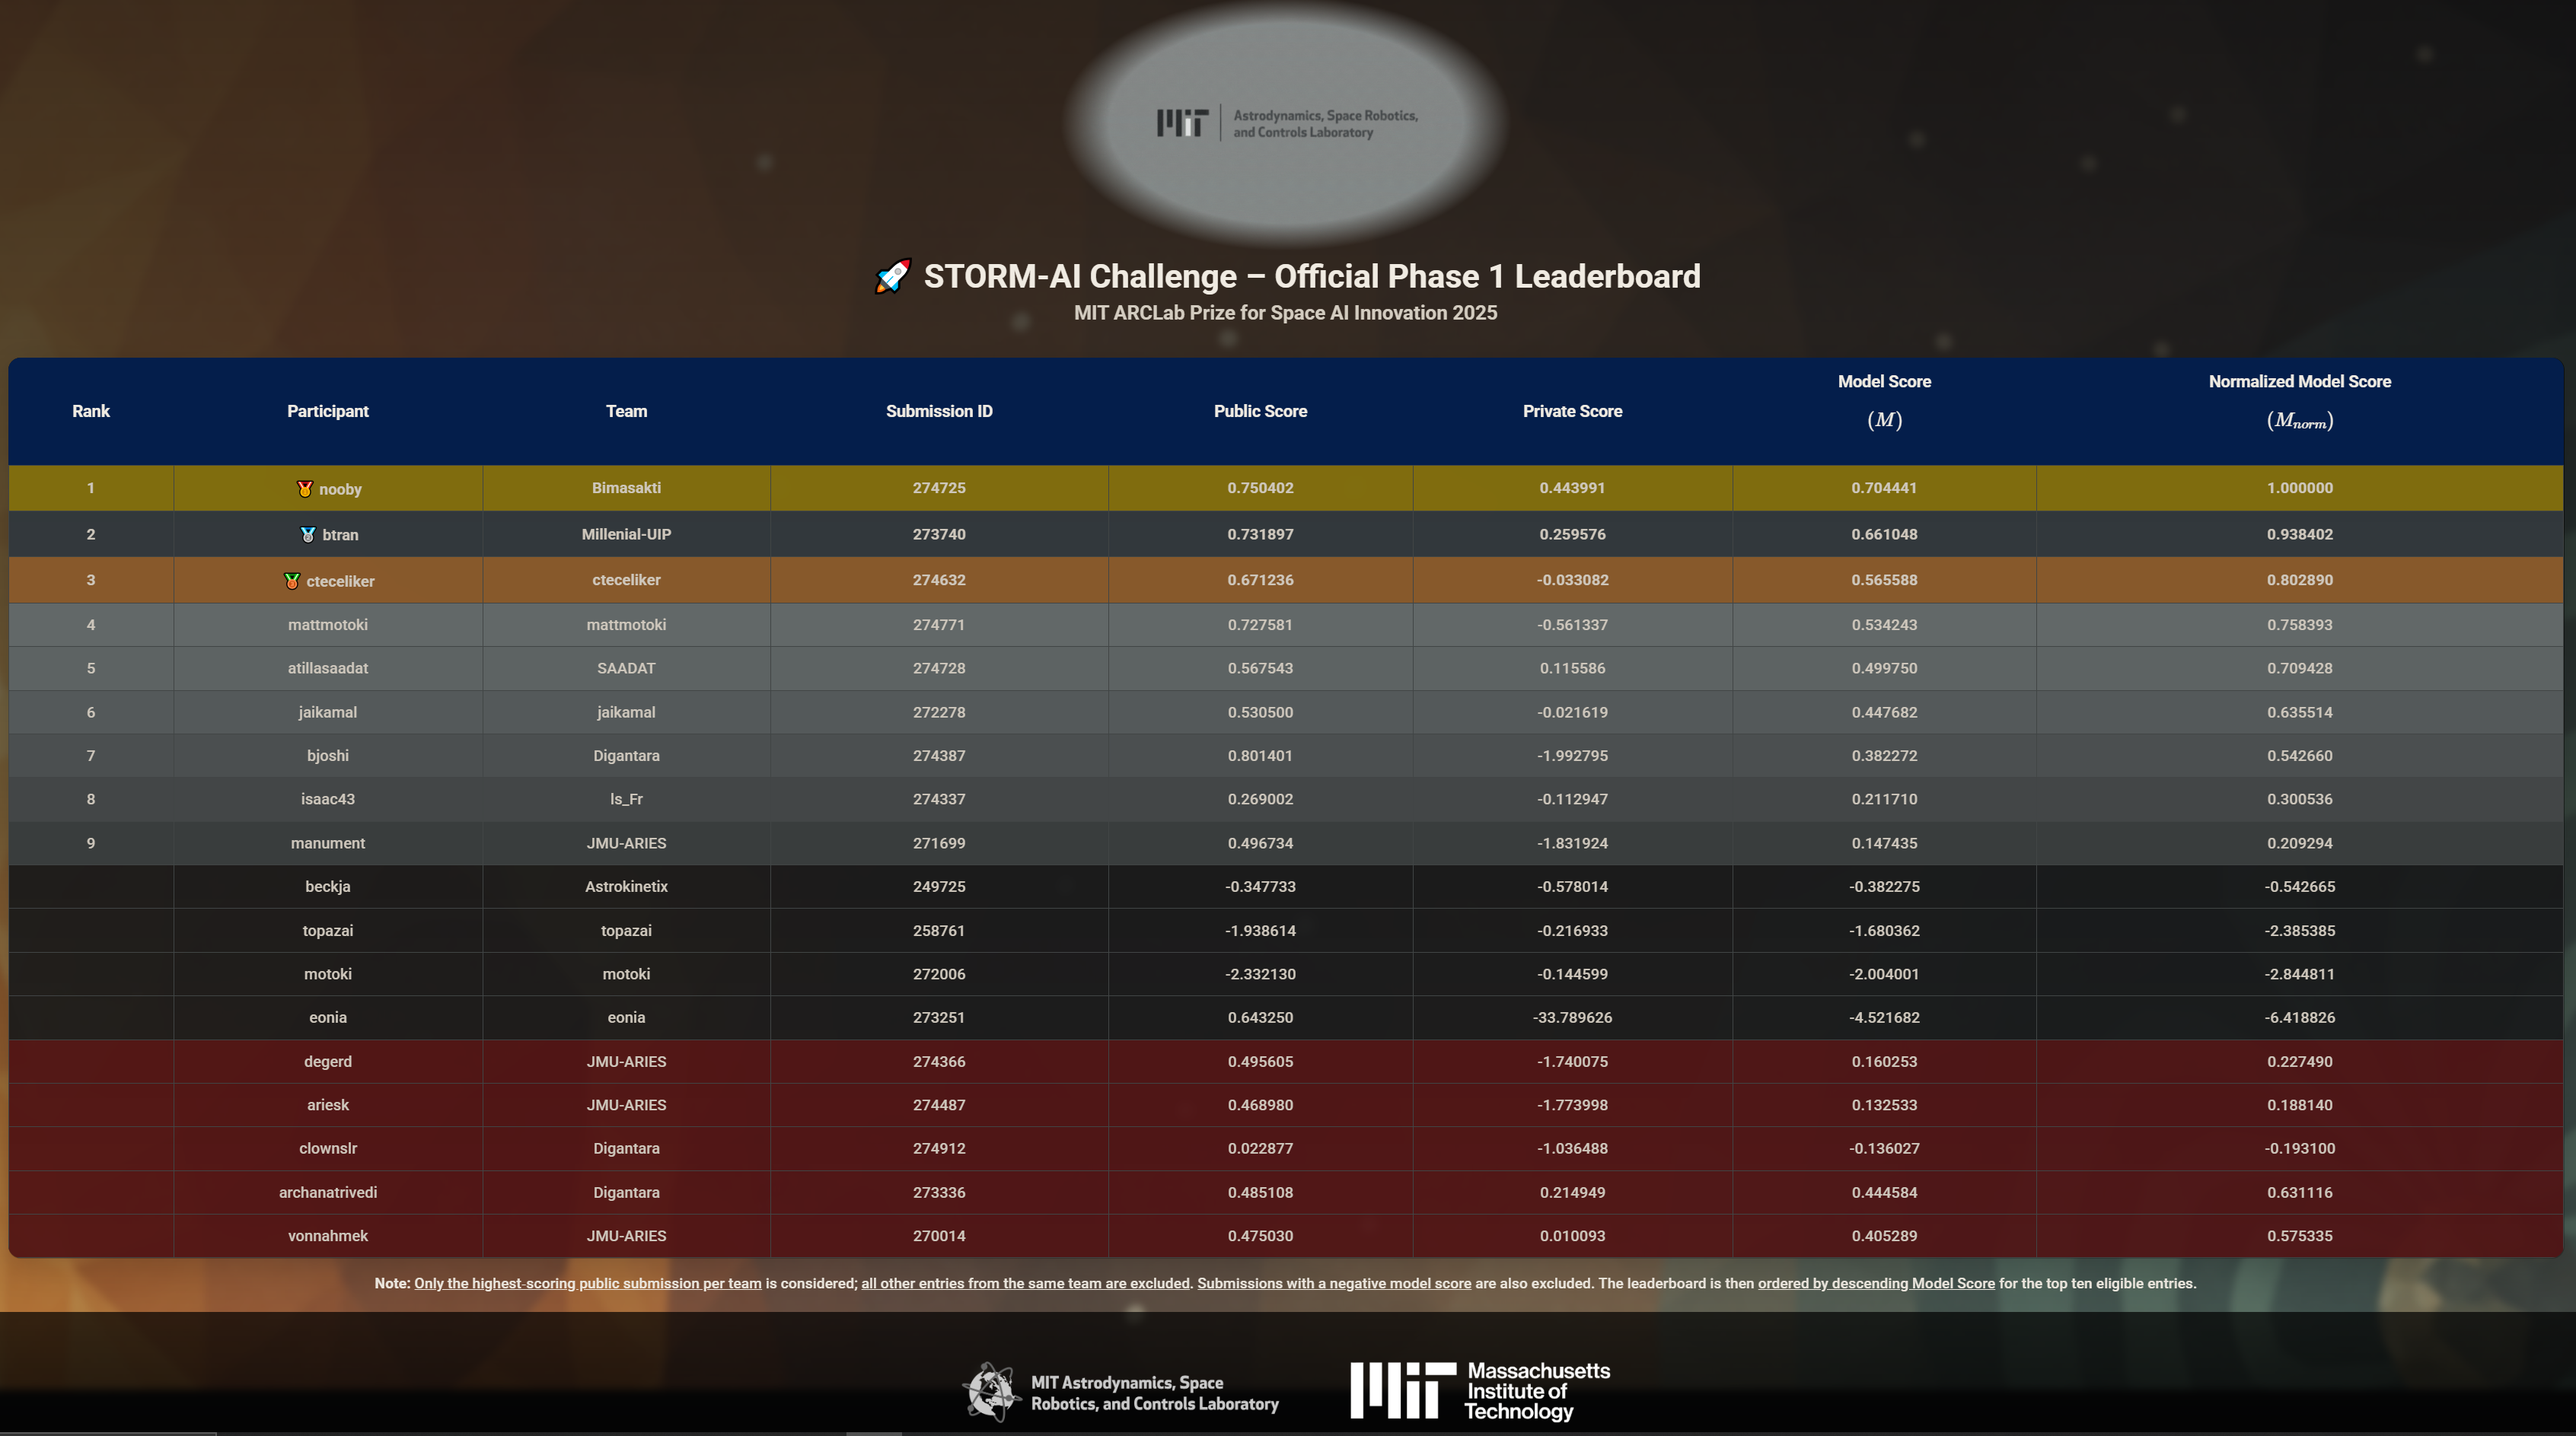
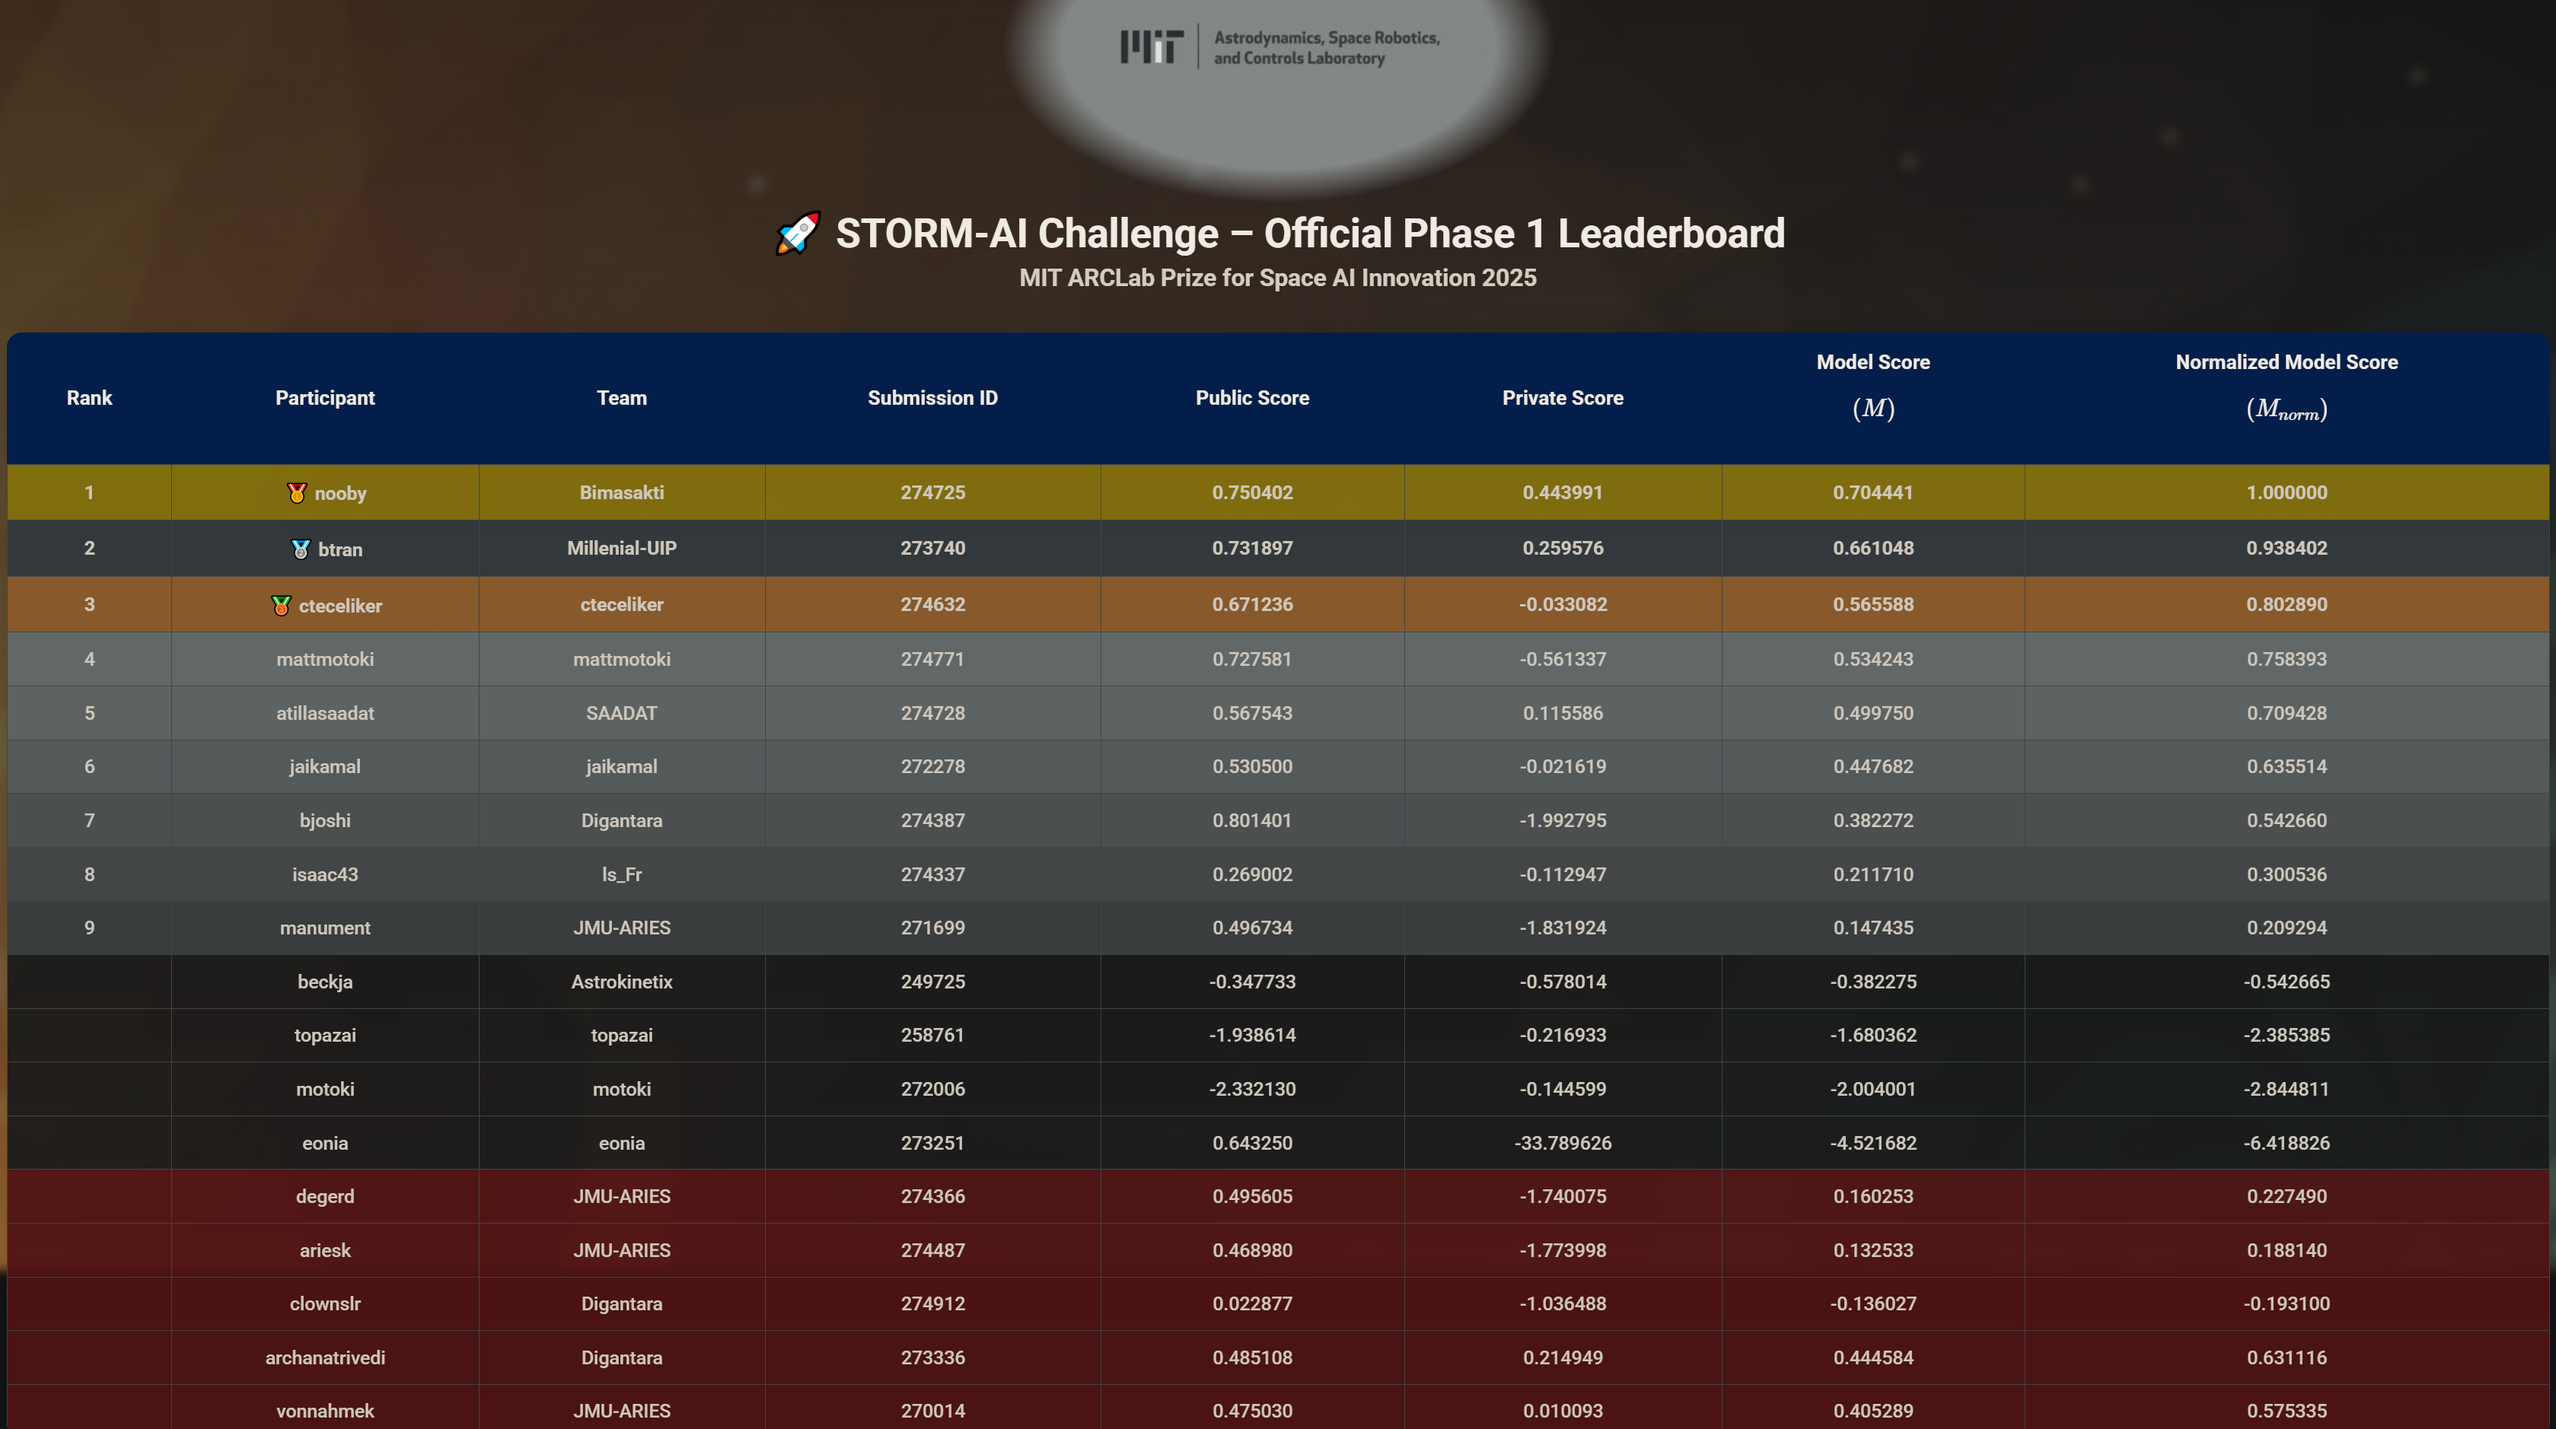
update leaderboard img

diff --git a/README.md b/README.md
@@ -48,10 +48,14 @@
 
 ---
 
-### 🏆 Leaderboard 🏆
+
+<div align="center">
+
+### 🏆 Leaderboard
 
 ![subtitle](_img/leaderboard.png)
 
+</div>
 ---
 
 
